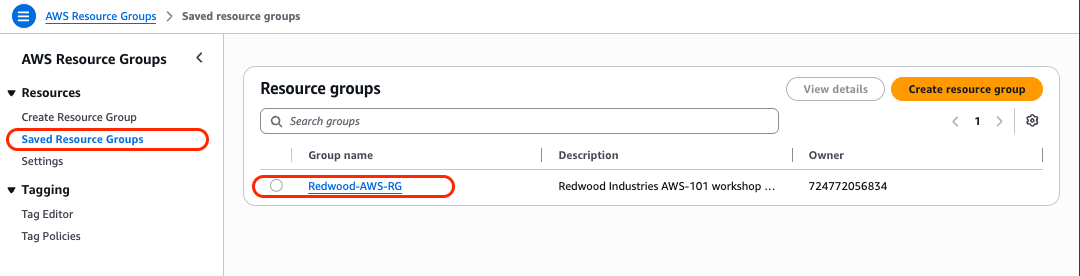
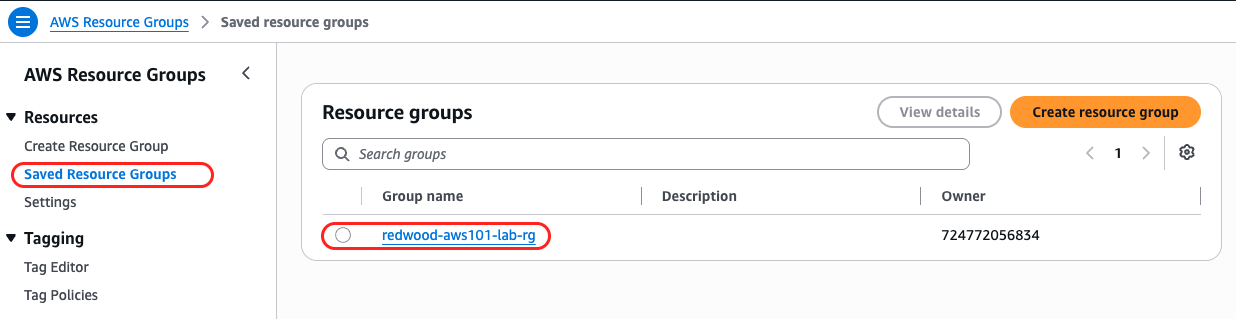
Use a single Project tag and list it in each parameter table
- Drop the Environment and Owner tags; nothing in the workshop used them
- Put `Project` = `Redwood-AWS-101` directly in every step's parameter
  table so students don't have to look it up in Lab 1
- Update Lab 1 Resource Group screenshots

diff --git a/aws-101-lab1/README.md b/aws-101-lab1/README.md
@@ -16,15 +16,9 @@ Build a VPC, a public and a private subnet, an Internet Gateway, and the public 
 
 Resources are named `redwood-aws101-lab-<resource>` (zonal resources end with the AZ, e.g. `-1a`).
 
-Apply these **standard tags** to every resource. The console sets `Name` automatically from the **Name** field.
+Every resource gets one tag, `Project` = `Redwood-AWS-101`. It is included in each step's parameter table. The `Project` tag drives the Resource Group and lets you confirm during clean-up that nothing is left. The console sets the `Name` tag automatically from the **Name** field.
 
-| Tag Key | Tag Value |
-| --- | --- |
-| `Project` | `Redwood-AWS-101` |
-| `Environment` | `lab` |
-| `Owner` | `<your-name>` |
-
-The `Project` tag drives the Resource Group, cost reports, and clean-up. `Owner` identifies who created a resource in a shared account.
+Real deployments usually add more tags, such as `Environment` and `Owner`, for cost allocation and ownership.
 
 ---
 
@@ -43,7 +37,7 @@ A tag-based Resource Group lists every workshop resource in one place, which mak
 
    ![RESOURCE GROUPS](images/step1.2.png)
 
-3. Click **Create resource group**:
+3. Click **Create Resource Group**:
 
    ![CREATE RESOURCE GROUP](images/step1.3.a.png)
 
@@ -53,12 +47,12 @@ A tag-based Resource Group lists every workshop resource in one place, which mak
    | Resource types | All supported resource types |
    | Tag Key / Value | `Project` / `Redwood-AWS-101` |
    | Group name | `redwood-aws101-lab-rg` |
-   | Group tags | standard tags |
+   | Group tag | `Project` = `Redwood-AWS-101` |
 
    ![RG PARAMETERS I](images/step1.3.b.png)
    ![RG PARAMETERS II](images/step1.3.c.png)
 
-4. Click **Create group**.
+4. Click **Create group**, and then click **Saved Resource Groups** to verify that the resource group was created.
 
    ![RG CREATED](images/step1.4.png)
 
@@ -74,7 +68,7 @@ A tag-based Resource Group lists every workshop resource in one place, which mak
 
    ![CREATE VPC](images/step2.2.png)
 
-3. Use the parameters below and add the standard tags:
+3. Use the parameters below:
 
    | Parameter | Value |
    | --- | --- |
@@ -83,6 +77,7 @@ A tag-based Resource Group lists every workshop resource in one place, which mak
    | IPv4 CIDR | `10.100.0.0/16` |
    | IPv6 CIDR block | No IPv6 CIDR block |
    | Tenancy | Default |
+   | Tag | `Project` = `Redwood-AWS-101` |
 
    ![VPC PARAMS](images/step2.3.png)
    ![VPC TAG + CREATE](images/step2.4.png)
@@ -110,7 +105,7 @@ This subnet hosts FortiGate's `port1` (Internet-facing).
 
    ![CREATE SUBNET](images/step3.1.png)
 
-2. Use the parameters below and add the standard tags:
+2. Use the parameters below:
 
    | Parameter | Value |
    | --- | --- |
@@ -118,6 +113,7 @@ This subnet hosts FortiGate's `port1` (Internet-facing).
    | Subnet name | `redwood-aws101-lab-subnet-public-1a` |
    | Availability Zone | `ca-central-1a` |
    | IPv4 subnet CIDR block | `10.100.1.0/24` |
+   | Tag | `Project` = `Redwood-AWS-101` |
 
    ![SUBNET PARAMS I](images/step3.2.png)
    ![SUBNET PARAMS II](images/step3.3.png)
@@ -149,7 +145,7 @@ Usable addresses: `10.100.1.4` to `10.100.1.254`.
 
 This subnet hosts FortiGate's `port2` and the protected workloads.
 
-1. Click **Create subnet** again, use the parameters below, and add the standard tags:
+1. Click **Create subnet** again and use the parameters below:
 
    | Parameter | Value |
    | --- | --- |
@@ -157,6 +153,7 @@ This subnet hosts FortiGate's `port2` and the protected workloads.
    | Subnet name | `redwood-aws101-lab-subnet-private-1a` |
    | Availability Zone | `ca-central-1a` |
    | IPv4 subnet CIDR block | `10.100.2.0/24` |
+   | Tag | `Project` = `Redwood-AWS-101` |
 
 2. Click **Create subnet**.
 
@@ -191,7 +188,12 @@ A VPC has no Internet access until an Internet Gateway (IGW) is attached **and**
 
    ![IGW](images/step5.1.png)
 
-2. Set **Name tag** to `redwood-aws101-lab-igw`, add the standard tags, and click **Create internet gateway**.
+2. Use the parameters below, then click **Create internet gateway**:
+
+   | Parameter | Value |
+   | --- | --- |
+   | Name tag | `redwood-aws101-lab-igw` |
+   | Tag | `Project` = `Redwood-AWS-101` |
 
    ![CREATE IGW](images/step5.2.png)
 
@@ -217,7 +219,7 @@ A subnet becomes "public" only when its route table has `0.0.0.0/0 → IGW`. For
    | --- | --- |
    | Name | `redwood-aws101-lab-rt-public` |
    | VPC | `redwood-aws101-lab-vpc` |
-   | Tags | standard tags |
+   | Tag | `Project` = `Redwood-AWS-101` |
 
    ![CREATE RT](images/step6.1.b.png)
 

diff --git a/aws-101-lab2/README.md b/aws-101-lab2/README.md
@@ -52,7 +52,7 @@ Deploy a FortiGate-VM with two interfaces (`port1` public, `port2` private), lic
    | Name | `redwood-aws101-lab-kp` |
    | Key pair type | `RSA` |
    | Private key file format | `.pem` (macOS/Linux/WSL) or `.ppk` (PuTTY) |
-   | Tags | standard tags |
+   | Tag | `Project` = `Redwood-AWS-101` |
 
    ![CREATE KEY PAIR](images/step2.2.png)
 
@@ -74,7 +74,13 @@ Deploy a FortiGate-VM with two interfaces (`port1` public, `port2` private), lic
 
    ![LAUNCH INSTANCE](images/step3.1.png)
 
-2. **Name and tags:** set Name to `redwood-aws101-lab-fgt`. Add the standard tags and apply them to **Instances, Volumes, Network interfaces**.
+2. **Name and tags:** click **Add additional tags**:
+
+   | Parameter | Value |
+   | --- | --- |
+   | Name | `redwood-aws101-lab-fgt` |
+   | Tag | `Project` = `Redwood-AWS-101` |
+   | Resource types | **Instances, Volumes, Network interfaces** |
 
    ![TAGS](images/step3.2.png)
 
@@ -145,7 +151,13 @@ In production, use a separate security group for each ENI role (Internet-facing 
 
 An Elastic IP is a persistent public address that belongs to your account. FortiGate needs a stable address for management, the Lab 3 VIPs, and the Lab 4 VPN peer.
 
-1. Open **EC2 → Elastic IPs → Allocate Elastic IP address**. Add the standard tags and `Name` = `redwood-aws101-lab-fgt-eip`, then click **Allocate**.
+1. Open **EC2 → Elastic IPs → Allocate Elastic IP address**, use the parameters below, and click **Allocate**:
+
+   | Parameter | Value |
+   | --- | --- |
+   | Public IPv4 address pool | Amazon's pool of IPv4 addresses |
+   | Tag | `Name` = `redwood-aws101-lab-fgt-eip` |
+   | Tag | `Project` = `Redwood-AWS-101` |
 
    ![ALLOCATE EIP](images/step4.1.a.png)
    ![ALLOCATE](images/step4.1.b.png)
@@ -179,7 +191,8 @@ An Elastic IP is a persistent public address that belongs to your account. Forti
    | Interface type | **ENA** |
    | Private IPv4 address | **Custom** → `10.100.2.4` |
    | Security groups | `redwood-aws101-lab-fgt-sg` |
-   | Tags | `Name` = `redwood-aws101-lab-fgt-eni-port2` + standard tags |
+   | Name tag | `redwood-aws101-lab-fgt-eni-port2` |
+   | Tag | `Project` = `Redwood-AWS-101` |
 
    ![CREATE](images/step5.2.gif)
 
@@ -274,7 +287,7 @@ This route table makes FortiGate the inspection point: any traffic leaving the p
    | --- | --- |
    | Name | `redwood-aws101-lab-rt-private` |
    | VPC | `redwood-aws101-lab-vpc` |
-   | Tags | standard tags |
+   | Tag | `Project` = `Redwood-AWS-101` |
 
    ![CREATE ROUTE TABLE](images/step9.1.b.png)
 

diff --git a/aws-101-lab3/README.md b/aws-101-lab3/README.md
@@ -21,7 +21,13 @@ Deploy a test VM (the application server) in the private subnet. Then configure 
 
 1. Open **EC2 → Instances → Launch instances**.
 
-2. **Name:** `redwood-aws101-lab-testvm`, with the standard tags.
+2. **Name and tags:** click **Add additional tags**:
+
+   | Parameter | Value |
+   | --- | --- |
+   | Name | `redwood-aws101-lab-testvm` |
+   | Tag | `Project` = `Redwood-AWS-101` |
+   | Resource types | **Instances, Volumes, Network interfaces** |
 
    ![TAGS](images/step1.2.png)
 
